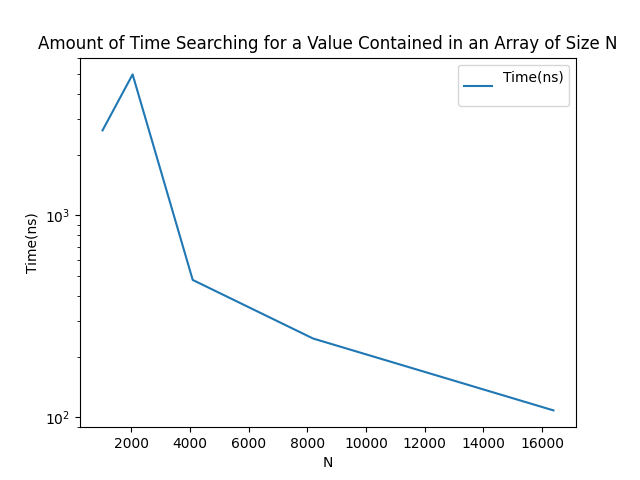
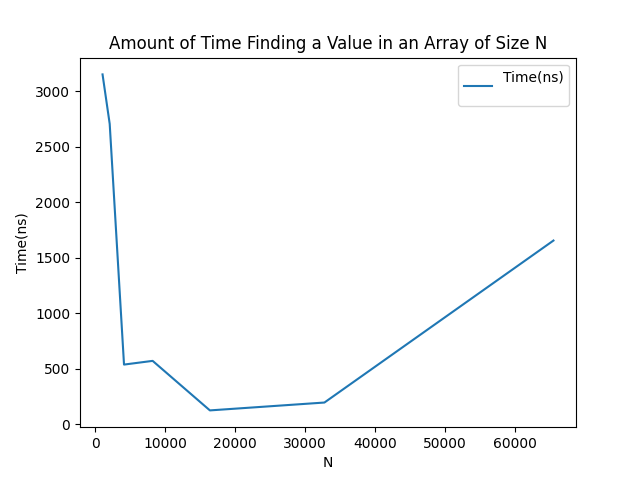
completed assignments 3 and 4

diff --git a/CS6012/Day 4/SortedArraySet/src/assignment03/BinarySearchSetAddTiming.java b/CS6012/Day 4/SortedArraySet/src/assignment03/BinarySearchSetAddTiming.java
@@ -3,31 +3,30 @@ package assignment03;
 import java.io.BufferedWriter;
 import java.io.FileWriter;
 import java.io.IOException;
-import java.util.*;
 
-public class BinarySearchSetTiming extends TimerTemplate {
+public class BinarySearchSetAddTiming extends TimerTemplate {
     BinarySearchSet<Integer> set = new BinarySearchSet<>();
 
-    public BinarySearchSetTiming(int[] problemSizes, int timesToLoop) {
+    public BinarySearchSetAddTiming(int[] problemSizes, int timesToLoop) {
         super(problemSizes, timesToLoop);
     }
 
     @Override
     protected void setup(int n) {
-        for (int size = 0; size < n; size++) {
-            for (int i = 1; i <= size; i++) {
-                set.add(i);
-            }
+        for (int i = 1; i <= n; i++) {
+            set.add(i);
         }
     }
 
     @Override
     protected void timingIteration(int n) {
-        set.contains(n/2);
+        set.add(n/2);
+        set.remove(n/2);
     }
 
     @Override
     protected void compensationIteration(int n) {
+        set.remove(n/2);
     }
 
     public static void main() throws IOException {
@@ -42,7 +41,7 @@ public class BinarySearchSetTiming extends TimerTemplate {
         var timer = new BinarySearchSetTiming(problemSize, 10);
         var results = timer.run();
 
-        String fileName = "data.csv";
+        String fileName = "additionData.csv";
         String COMMA_DELIMITER = ",";
         String NEW_LINE_SEPARATOR = "\n";
 
@@ -56,6 +55,3 @@ public class BinarySearchSetTiming extends TimerTemplate {
         }
     }
 }
-
-
-

diff --git a/CS6012/Day 4/SortedArraySet/plot_timing.py b/CS6012/Day 4/SortedArraySet/plot_timing.py
@@ -1,7 +1,7 @@
 import matplotlib.pyplot as plt
 
 def main():
-    filename = "data.csv" #change me if desired
+    filename = "additionData.csv" #change me if desired
     with open(filename, 'r') as f:
         lines = f.readlines()
         headers = lines[0].split(",")
@@ -21,10 +21,10 @@ def main():
 
         plt.xlabel(headers[0])
         plt.ylabel("Time(ns)") #change me
-        plt.title("Amount of Time Searching for a Value Contained in an Array of Size N") #change me
-        plt.yscale('log')
+        plt.title("Amount of Time Adding a New Value in an Array of Size N") #change me
+        # plt.xscale('log')
         plt.legend(headers[1:]) # label the lines
-        plt.savefig('Value_Contained.png') #change me
+        plt.savefig('Value_Added.png') #change me
 
         plt.show()
         plt.close()
